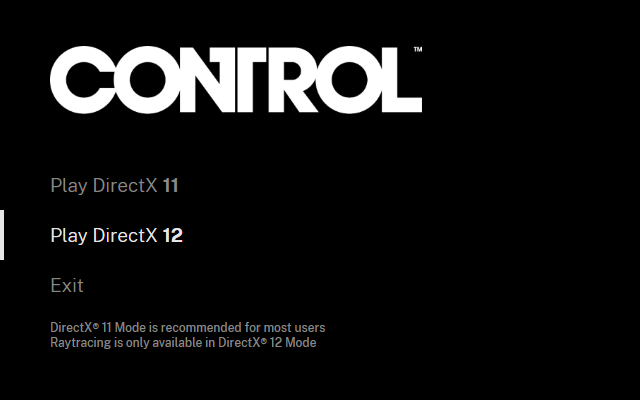
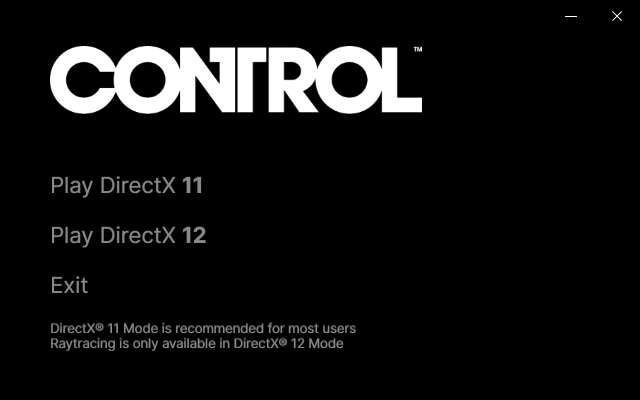
Bumped version to v1.1
Moved styles to own namespace
Added minimize and close buttons
Added WindowButton style for these buttons
Adjusted text rendering to not look as bad anymore
Cleaned up a bunch of XAML
Updated screenshot

diff --git a/MainWindow.xaml b/MainWindow.xaml
@@ -3,59 +3,22 @@
         xmlns:x="http://schemas.microsoft.com/winfx/2006/xaml"
         xmlns:d="http://schemas.microsoft.com/expression/blend/2008"
         xmlns:mc="http://schemas.openxmlformats.org/markup-compatibility/2006"
-        xmlns:sys="clr-namespace:System;assembly=mscorlib"
-        xmlns:local="clr-namespace:ControlLauncher"
-        mc:Ignorable="d" Background="Black" Icon="Images/Control.ico"
-        FontFamily="{StaticResource PublicSansLight}" UseLayoutRounding="True"
+		xmlns:styles="clr-namespace:ControlLauncher.Styles"
+		mc:Ignorable="d" Icon="Images/Control.ico"
+        UseLayoutRounding="True"
+        TextOptions.TextRenderingMode="Grayscale" TextOptions.TextHintingMode="Animated"
 		RenderOptions.BitmapScalingMode="HighQuality"
-        WindowStyle="None" ResizeMode="NoResize"
+		FontFamily="{StaticResource Inter}"
+        WindowStyle="None" ResizeMode="NoResize" Background="#000000" 
         Title="Control Launcher" Height="400" Width="640"
         MouseDown="MainWindow_OnMouseDown" Loaded="MainWindow_OnLoaded" Closing="MainWindow_OnClosing">
 	<Window.Resources>
-		<SolidColorBrush x:Key="WhiteBrush" Color="#E6E6E6" />
-		<SolidColorBrush x:Key="GrayBrush" Color="#898989" />
-
-		<Style TargetType="Button">
-			<Setter Property="Foreground" Value="{StaticResource GrayBrush}" />
-			<Setter Property="Background" Value="Black" />
-			<Setter Property="FontSize" Value="19" />
-			<Setter Property="Padding" Value="50,0,0,0" />
-			<Setter Property="Width" Value="250" />
-			<Setter Property="HorizontalAlignment" Value="Left" />
-			<Setter Property="HorizontalContentAlignment" Value="Left" />
-			<Setter Property="Template">
-				<Setter.Value>
-					<ControlTemplate TargetType="{x:Type Button}">
-						<Grid Background="{TemplateBinding Background}" x:Name="grid">
-							<Grid.ColumnDefinitions>
-								<ColumnDefinition Width="4" />
-								<ColumnDefinition />
-							</Grid.ColumnDefinitions>
-
-							<Border x:Name="bd" Background="{StaticResource WhiteBrush}" Visibility="Collapsed" />
-
-							<Border Grid.Column="0" Grid.ColumnSpan="2" Background="Black" HorizontalAlignment="Right" 
-							        Width="{Binding RelativeSource={RelativeSource TemplatedParent}, Path=(local:ControlButtonHelper.InsetWidth)}"/>
-
-							<ContentPresenter Grid.Column="0" Grid.ColumnSpan="2" 
-				                  HorizontalAlignment="{TemplateBinding HorizontalContentAlignment}"
-				                  Margin="{TemplateBinding Padding}" VerticalAlignment="{TemplateBinding VerticalContentAlignment}" 
-				                  SnapsToDevicePixels="{TemplateBinding SnapsToDevicePixels}" RecognizesAccessKey="True" />
-						</Grid>
-						<ControlTemplate.Triggers>
-							<Trigger Property="IsDefault" Value="True">
-								<Setter Property="Foreground" Value="{StaticResource WhiteBrush}" />
-								<Setter TargetName="bd" Property="Visibility" Value="Visible" />
-							</Trigger>
-							<Trigger Property="IsMouseOver" Value="True">
-								<Setter TargetName="grid" Property="Background" Value="{StaticResource WhiteBrush}"/>
-								<Setter Property="Foreground" Value="Black" />
-							</Trigger>
-						</ControlTemplate.Triggers>
-					</ControlTemplate>
-				</Setter.Value>
-			</Setter>
-		</Style>
+		<ResourceDictionary>
+			<ResourceDictionary.MergedDictionaries>
+				<ResourceDictionary Source="Styles/MenuButton.xaml"></ResourceDictionary>
+				<ResourceDictionary Source="Styles/WindowButton.xaml"></ResourceDictionary>
+			</ResourceDictionary.MergedDictionaries>
+		</ResourceDictionary>
 	</Window.Resources>
 	<Grid>
 		<Grid.ColumnDefinitions>
@@ -63,6 +26,8 @@
 			<ColumnDefinition Width="250" />
 			<ColumnDefinition Width="80" />
 			<ColumnDefinition />
+			<ColumnDefinition Width="46" />
+			<ColumnDefinition Width="46" />
 		</Grid.ColumnDefinitions>
         <Grid.RowDefinitions>
 			<RowDefinition Height="160" />
@@ -73,25 +38,27 @@
 			<RowDefinition />
 		</Grid.RowDefinitions>
 
+		<styles:WindowButton x:Name="MinimizeButton" Grid.Column="4" VerticalAlignment="Top" ButtonType="Minimize" Click="Minimize_Click" />
+		<styles:WindowButton x:Name="CloseButton" Grid.Column="5" VerticalAlignment="Top" ButtonType="Close" Click="Exit_Click" />
+
         <Image Grid.Column="1" Grid.ColumnSpan="3" Source="Images/control.png" Width="372" HorizontalAlignment="Left" />
 
-		<Button x:Name="DirectX11Button" Grid.Column="0" Grid.ColumnSpan="2" Grid.Row="1" Click="LaunchDX11_Click">
-			<TextBlock>Play DirectX <Run FontFamily="{StaticResource PublicSansBold}">11</Run></TextBlock>
-		</Button>
+		<styles:MenuButton x:Name="DirectX11Button" Grid.Column="0" Grid.ColumnSpan="2" Grid.Row="1" Click="LaunchDX11_Click">
+			<TextBlock>Play DirectX <Run FontWeight="Bold">11</Run></TextBlock>
+		</styles:MenuButton>
 
-		<Button x:Name="DirectX12Button" Grid.Column="0" Grid.ColumnSpan="2" Grid.Row="2" Click="LaunchDX12_Click" Tag="True">
-			<TextBlock BaselineOffset="40">Play DirectX <Run FontFamily="{StaticResource PublicSansBold}">12</Run></TextBlock>
-		</Button>
+		<styles:MenuButton x:Name="DirectX12Button" Grid.Column="0" Grid.ColumnSpan="2" Grid.Row="2" Click="LaunchDX12_Click">
+			<TextBlock>Play DirectX <Run FontWeight="Bold">12</Run></TextBlock>
+		</styles:MenuButton>
 
-		<Button Grid.Column="0" Grid.ColumnSpan="2" Grid.Row="3" local:ControlButtonHelper.InsetWidth="110" Content="Exit" Click="Exit_Click"/>
-		
-        <TextBlock Grid.Column="1" Grid.ColumnSpan="2" Grid.Row="4" 
-                   Foreground="{StaticResource GrayBrush}" VerticalAlignment="Center" HorizontalAlignment="Left" Width="290" 
-                   TextWrapping="Wrap" FontFamily="{StaticResource PublicSansMedium}">
+		<styles:MenuButton Grid.Column="0" Grid.ColumnSpan="2" Grid.Row="3" InsetWidth="110" Click="Exit_Click">
+			<TextBlock>Exit</TextBlock>
+		</styles:MenuButton>
+
+		<TextBlock Grid.Column="1" Grid.ColumnSpan="2" Grid.Row="4" TextWrapping="Wrap" FontSize="13" 
+                   Foreground="#898989" VerticalAlignment="Center" HorizontalAlignment="Left">
 			DirectX® 11 Mode is recommended for most users
 			Raytracing is only available in DirectX® 12 Mode
 		</TextBlock>
-
-
 	</Grid>
 </Window>

diff --git a/Styles/WindowButton.xaml b/Styles/WindowButton.xaml
@@ -1,0 +1,116 @@
+<ResourceDictionary xmlns="http://schemas.microsoft.com/winfx/2006/xaml/presentation"
+                    xmlns:x="http://schemas.microsoft.com/winfx/2006/xaml"
+                    xmlns:styles="clr-namespace:ControlLauncher.Styles">
+
+	<Style TargetType="styles:WindowButton">
+		<Style.Resources>
+			<SolidColorBrush x:Key="TransparentWhiteBrush" Color="#35FFFFFF" />
+			<SolidColorBrush x:Key="TransparentWhiteBrush2" Color="#69FFFFFF" />
+			<SolidColorBrush x:Key="RedBrush" Color="#E81123" />
+
+			<DrawingImage x:Key="CloseIcon">
+				<DrawingImage.Drawing>
+					<DrawingGroup ClipGeometry="M0,0 V12 H12 V0 H0 Z">
+						<DrawingGroup.Transform>
+							<TranslateTransform X="17" Y="10" />
+						</DrawingGroup.Transform>
+						<DrawingGroup Opacity="1">
+							<DrawingGroup Opacity="1">
+								<GeometryDrawing Brush="#FFFFFFFF" Geometry="F0 M12,12z M0,0z M11,10.286L1.714,1 1,1.714 10.286,11 11,10.286z" />
+								<GeometryDrawing Brush="#FFFFFFFF" Geometry="F0 M12,12z M0,0z M10.286,1L1,10.286 1.714,11 11,1.714 10.286,1z" />
+							</DrawingGroup>
+						</DrawingGroup>
+					</DrawingGroup>
+				</DrawingImage.Drawing>
+			</DrawingImage>
+
+			<DrawingImage x:Key="MaximizeIcon">
+				<DrawingImage.Drawing>
+					<DrawingGroup ClipGeometry="M0,0 V12 H12 V0 H0 Z">
+						<DrawingGroup.Transform>
+							<TranslateTransform X="17" Y="10" />
+						</DrawingGroup.Transform>
+						<DrawingGroup Opacity="1">
+							<GeometryDrawing Brush="#FFFFFFFF" Geometry="F0 M12,12z M0,0z M11,0L11,10 1,10 1,0 11,0z M10,1L2,1 2,9 10,9 10,1z" />
+						</DrawingGroup>
+					</DrawingGroup>
+				</DrawingImage.Drawing>
+			</DrawingImage>
+
+			<DrawingImage x:Key="MinimizeIcon">
+				<DrawingImage.Drawing>
+					<DrawingGroup ClipGeometry="M0,0 V12 H12 V0 H0 Z">
+						<DrawingGroup.Transform>
+							<TranslateTransform X="17" Y="10" />
+						</DrawingGroup.Transform>
+						<DrawingGroup Opacity="1">
+							<GeometryDrawing Brush="#FFFFFFFF">
+								<GeometryDrawing.Geometry>
+									<RectangleGeometry RadiusX="0" RadiusY="0" Rect="1,5,10,1" />
+								</GeometryDrawing.Geometry>
+							</GeometryDrawing>
+						</DrawingGroup>
+					</DrawingGroup>
+				</DrawingImage.Drawing>
+			</DrawingImage>
+		</Style.Resources>
+		<Setter Property="Background" Value="Transparent" />
+		<Setter Property="Width" Value="46" />
+		<Setter Property="Height" Value="32" />
+		<Setter Property="Template">
+			<Setter.Value>
+				<ControlTemplate TargetType="{x:Type Button}">
+					<Grid Background="{TemplateBinding Background}" x:Name="ButtonContainer">
+						<Border x:Name="ButtonColorBG" Opacity="0" Background="{StaticResource RedBrush}" />
+						<Border x:Name="ButtonMouseBG" />
+
+						<Image x:Name="ButtonIcon" Width="12" Height="12"></Image>
+					</Grid>
+					<ControlTemplate.Triggers>
+						<DataTrigger Binding="{Binding RelativeSource={RelativeSource Self}, Path=ButtonType}" Value="Undefined">
+							<Setter TargetName="ButtonIcon" Property="Source" Value="{x:Null}" />
+						</DataTrigger>
+						<DataTrigger Binding="{Binding RelativeSource={RelativeSource Self}, Path=ButtonType}" Value="Minimize">
+							<Setter TargetName="ButtonIcon" Property="Source" Value="{StaticResource MinimizeIcon}" />
+						</DataTrigger>
+						<DataTrigger Binding="{Binding RelativeSource={RelativeSource Self}, Path=ButtonType}" Value="Maximize">
+							<Setter TargetName="ButtonIcon" Property="Source" Value="{StaticResource MaximizeIcon}" />
+						</DataTrigger>
+						<DataTrigger Binding="{Binding RelativeSource={RelativeSource Self}, Path=ButtonType}" Value="Close">
+							<Setter TargetName="ButtonIcon" Property="Source" Value="{StaticResource CloseIcon}" />
+						</DataTrigger>
+
+						<Trigger Property="IsMouseOver" Value="True">
+							<Setter TargetName="ButtonMouseBG" Property="Background" Value="{StaticResource TransparentWhiteBrush}"/>
+						</Trigger>
+						<Trigger Property="IsPressed" Value="True">
+							<Setter TargetName="ButtonMouseBG" Property="Background" Value="{StaticResource TransparentWhiteBrush2}"/>
+						</Trigger>
+
+						<MultiTrigger>
+							<MultiTrigger.Conditions>
+								<Condition Property="styles:WindowButton.ButtonType" Value="Close" />
+								<Condition Property="IsMouseOver" Value="True" />
+							</MultiTrigger.Conditions>
+							<MultiTrigger.Setters>
+								<Setter TargetName="ButtonMouseBG" Property="Background" Value="Transparent"/>
+								<Setter TargetName="ButtonColorBG" Property="Opacity" Value="1" />
+							</MultiTrigger.Setters>
+						</MultiTrigger>
+
+						<MultiTrigger>
+							<MultiTrigger.Conditions>
+								<Condition Property="styles:WindowButton.ButtonType" Value="Close" />
+								<Condition Property="IsPressed" Value="True" />
+							</MultiTrigger.Conditions>
+							<MultiTrigger.Setters>
+								<Setter TargetName="ButtonMouseBG" Property="Background" Value="Transparent"/>
+								<Setter TargetName="ButtonColorBG" Property="Opacity" Value="0.6" />
+							</MultiTrigger.Setters>
+						</MultiTrigger>
+					</ControlTemplate.Triggers>
+				</ControlTemplate>
+			</Setter.Value>
+		</Setter>
+	</Style>
+</ResourceDictionary>

diff --git a/Styles/MenuButton.xaml b/Styles/MenuButton.xaml
@@ -1,0 +1,50 @@
+<ResourceDictionary xmlns="http://schemas.microsoft.com/winfx/2006/xaml/presentation"
+                    xmlns:x="http://schemas.microsoft.com/winfx/2006/xaml"
+                    xmlns:styles="clr-namespace:ControlLauncher.Styles">
+
+	<Style TargetType="styles:MenuButton">
+		<Style.Resources>
+			<SolidColorBrush x:Key="WhiteBrush" Color="#E6E6E6" />
+			<SolidColorBrush x:Key="GrayBrush" Color="#898989" />
+		</Style.Resources>
+		<Setter Property="Foreground" Value="{StaticResource GrayBrush}" />
+		<Setter Property="Background" Value="Black" />
+		<Setter Property="FontSize" Value="22" />
+		<Setter Property="Padding" Value="50,0,0,0" />
+		<Setter Property="Width" Value="250" />
+		<Setter Property="HorizontalAlignment" Value="Left" />
+		<Setter Property="HorizontalContentAlignment" Value="Left" />
+		<Setter Property="Template">
+			<Setter.Value>
+				<ControlTemplate TargetType="{x:Type Button}">
+					<Grid Background="{TemplateBinding Background}" x:Name="grid">
+						<Grid.ColumnDefinitions>
+							<ColumnDefinition Width="4" />
+							<ColumnDefinition />
+						</Grid.ColumnDefinitions>
+
+						<Border x:Name="bd" Background="{StaticResource WhiteBrush}" Visibility="Collapsed" />
+
+						<Border Grid.Column="0" Grid.ColumnSpan="2" Background="Black" HorizontalAlignment="Right" 
+							        Width="{Binding RelativeSource={RelativeSource TemplatedParent}, Path=(styles:MenuButton.InsetWidth)}"/>
+
+						<ContentPresenter Grid.Column="0" Grid.ColumnSpan="2" 
+				                  HorizontalAlignment="{TemplateBinding HorizontalContentAlignment}"
+				                  Margin="{TemplateBinding Padding}" VerticalAlignment="{TemplateBinding VerticalContentAlignment}" 
+				                  SnapsToDevicePixels="{TemplateBinding SnapsToDevicePixels}" RecognizesAccessKey="True" />
+					</Grid>
+					<ControlTemplate.Triggers>
+						<Trigger Property="IsDefault" Value="True">
+							<Setter Property="Foreground" Value="{StaticResource WhiteBrush}" />
+							<Setter TargetName="bd" Property="Visibility" Value="Visible" />
+						</Trigger>
+						<Trigger Property="IsMouseOver" Value="True">
+							<Setter TargetName="grid" Property="Background" Value="{StaticResource WhiteBrush}"/>
+							<Setter Property="Foreground" Value="Black" />
+						</Trigger>
+					</ControlTemplate.Triggers>
+				</ControlTemplate>
+			</Setter.Value>
+		</Setter>
+	</Style>
+</ResourceDictionary>

diff --git a/Styles/WindowButton.cs b/Styles/WindowButton.cs
@@ -1,0 +1,32 @@
+using System;
+using System.Collections.Generic;
+using System.Linq;
+using System.Text;
+using System.Threading.Tasks;
+using System.Windows;
+using System.Windows.Controls;
+
+namespace ControlLauncher.Styles
+{
+	public class WindowButton : Button
+	{
+		public enum ButtonTypes {
+			Undefined = -1,
+			Minimize = 0,
+			Maximize = 1,
+			Close = 2
+		}
+
+		public static readonly DependencyProperty ButtonTypeProperty = DependencyProperty.RegisterAttached(
+			"ButtonType",
+			typeof(ButtonTypes),
+			typeof(WindowButton),
+			new FrameworkPropertyMetadata(ButtonTypes.Undefined, FrameworkPropertyMetadataOptions.Inherits | FrameworkPropertyMetadataOptions.AffectsRender));
+
+		public ButtonTypes ButtonType
+		{
+			get => (ButtonTypes)GetValue(ButtonTypeProperty);
+			set => SetValue(ButtonTypeProperty, value);
+		}
+	}
+}

diff --git a/Styles/MenuButton.cs b/Styles/MenuButton.cs
@@ -1,0 +1,24 @@
+using System;
+using System.Collections.Generic;
+using System.Linq;
+using System.Text;
+using System.Threading.Tasks;
+using System.Windows;
+using System.Windows.Controls;
+
+namespace ControlLauncher.Styles
+{
+	public class MenuButton : Button
+	{
+		public static readonly DependencyProperty InsetWidthProperty = DependencyProperty.RegisterAttached(
+			"InsetWidth", 
+			typeof(double), 
+			typeof(MenuButton), 
+			new FrameworkPropertyMetadata(0d, FrameworkPropertyMetadataOptions.Inherits | FrameworkPropertyMetadataOptions.AffectsRender));
+
+		public double InsetWidth {
+			get => (double)GetValue(InsetWidthProperty);
+			set => SetValue(InsetWidthProperty, value);
+		}
+	}
+}

diff --git a/Properties/AssemblyInfo.cs b/Properties/AssemblyInfo.cs
@@ -51,6 +51,6 @@ using System.Windows;
 // You can specify all the values or you can default the Build and Revision Numbers
 // by using the '*' as shown below:
 // [assembly: AssemblyVersion("1.0.*")]
-[assembly: AssemblyVersion("1.0.0.0")]
-[assembly: AssemblyFileVersion("1.0.0.0")]
+[assembly: AssemblyVersion("1.1.0.0")]
+[assembly: AssemblyFileVersion("1.1.0.0")]
 [assembly: NeutralResourcesLanguage("en")]

diff --git a/MainWindow.xaml.cs b/MainWindow.xaml.cs
@@ -73,6 +73,10 @@ namespace ControlLauncher
 			this.Close();
 		}
 
+		private void Minimize_Click(object sender, RoutedEventArgs e) {
+			this.WindowState = WindowState.Minimized;
+		}
+
 		private void Exit_Click(object sender, RoutedEventArgs e)
 		{
 			this.Close();
